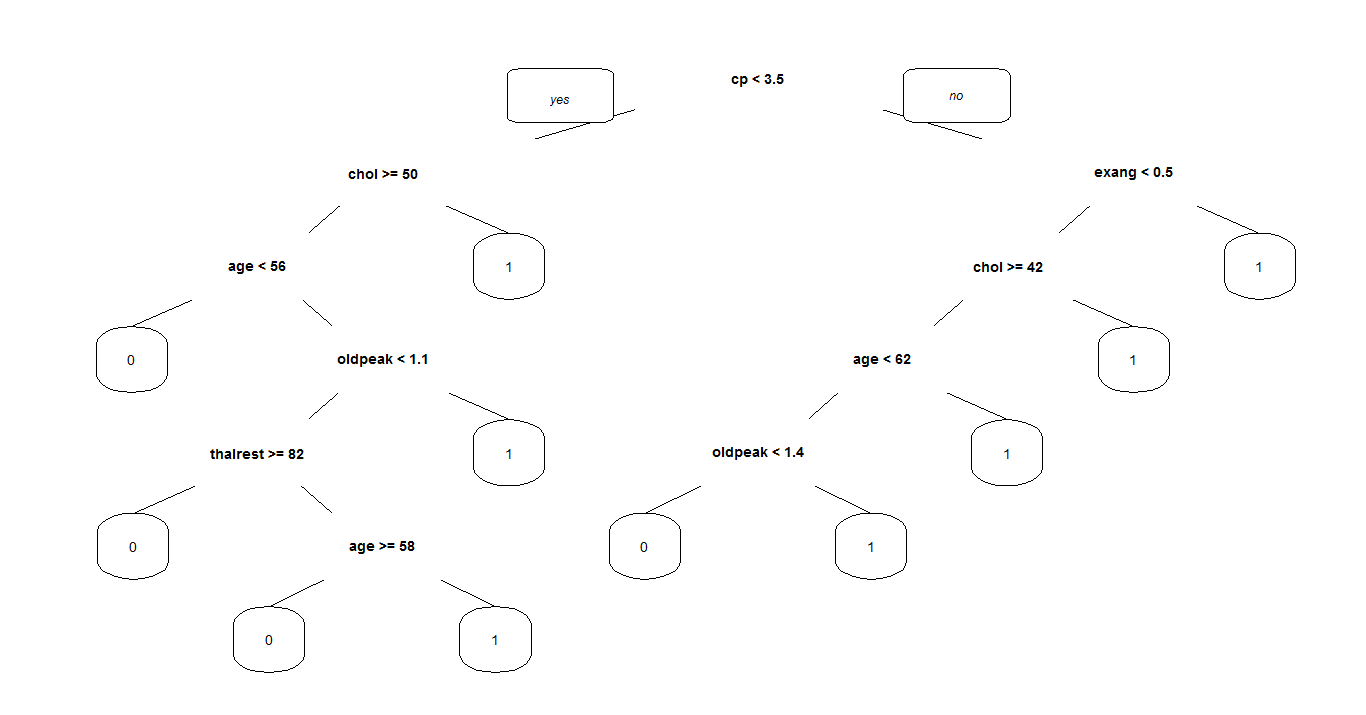
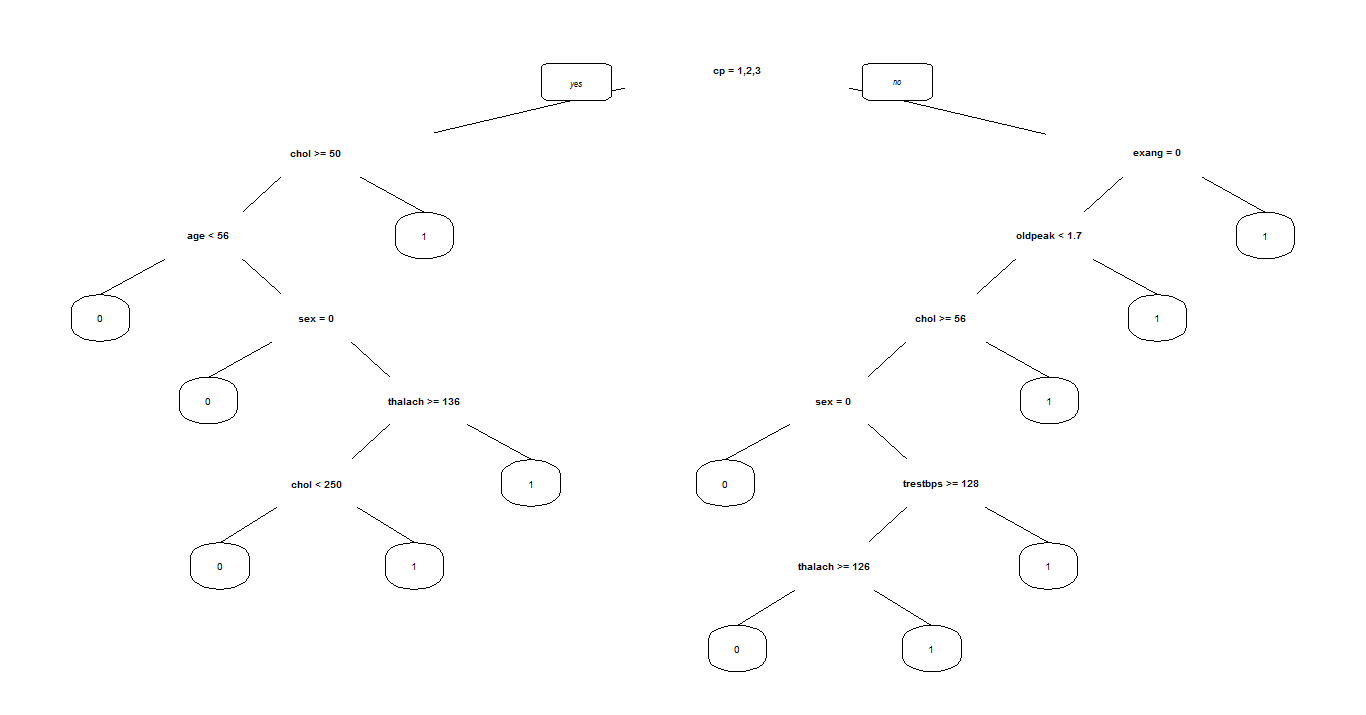
added prediction function in python

diff --git a/prediction/prediction.py b/prediction/prediction.py
@@ -1,0 +1,145 @@
+# -*- coding: utf-8 -*-
+"""
+Created on Sat Apr 16 09:02:18 2016
+
+@author: Susrutha
+@decision tree program
+"""
+
+
+""" 
+Function that takes the following values and predicts whether the person
+is at risk of suffering from heart disease
+1. Chest pain (cp) - type 1 (4 types possible)
+        -- Value 1: typical angina
+        -- Value 2: atypical angina
+        -- Value 3: non-anginal pain
+        -- Value 4: asymptomatic
+2. Exercise induced Angina (exang) - default = No (binary yes/no)
+3. ST Depression induced by exercise (oldpeak) - default = 0
+4. Cholestrol - default = 200
+5. Sex - default male
+6. Resting Blood Pressure (trestbps) - default(systolic) = 120
+7. Maximum Heart Rate - (thalach) default = 110
+8. Age - default = 50
+"""
+def hd_predict(cp = 1, exang = 0, oldpeak = 0, chol = 200, sex = 0, trestbps = 120, thalach = 110, age = 50):
+    result = False
+    if cp == 1 or cp == 2 or cp == 3:
+        if chol >= 50:
+            if age < 56:
+                result = False
+            else:
+                if sex == 0:
+                    result = False
+                else:
+                    if thalach >= 136:
+                        if chol < 250:
+                            result = False
+                        else:
+                            result = True
+                    else:
+                        result = True
+        else:
+            result = True
+    else:
+        if exang == 0:
+            if oldpeak < 1.7:
+                if chol >= 56:
+                    if sex == 0:
+                        result = False
+                    else:
+                        if trestbps >= 128:
+                            if thalach >= 126:
+                                result = False
+                            else:
+                                result = True
+                        else:
+                            result = True
+                else:
+                    result = True
+            else:
+                result = True
+        else:
+            result = True
+    return result
+                
+print hd_predict()
+ 
+
+
+
+
+
+
+
+#from sklearn import tree
+##from sklearn.externals.six import StringIO  
+##import pydot
+##import os
+#
+#
+#""" Read in data as list of lists """
+#file_name = "train_data.csv"
+#f = open(file_name, 'r')
+#headers = f.readline().strip('\r\n').split(',')
+#train_data = []
+#train_target = []
+#for line in f:
+#    row = line.strip('\r\n').split(',')
+#    train_data.append(row[:len(row)-2])
+#    train_target.append(row[-1])
+#f.close()
+#
+#file_name = "testing_data.csv"
+#f = open(file_name, 'r')
+#test_headers = f.readline().strip('\r\n').split(',')
+#test_data = []
+#test_target = []
+#for line in f:
+#    row = line.strip('\r\n').split(',')
+#    test_data.append(row[:len(row)-2])
+#    test_target.append(row[-1])
+#f.close()
+#
+#
+#
+#
+#
+#dtree = tree.DecisionTreeClassifier()
+#dtree = dtree.fit(train_data, train_target)
+#
+##cross_val_score(dtree, train_data, train_target, cv=10)
+#print dtree.score(test_data, test_target)
+#
+##dot_data = StringIO()
+##tree.export_graphviz(dtree, out_file=dot_data) 
+##graph = pydot.graph_from_dot_data(dot_data.getvalue()) 
+##graph.write_pdf("dtree.pdf") 
+#
+# 
+##with open("C:/Users/Susrutha/Desktop/CMU\Spring 2016/Data Pipeline/Project/dtree.dot", 'w') as f:
+##    f = tree.export_graphviz(dtree, out_file=f)
+##os.unlink('C:/Users/Susrutha/Desktop/CMU\Spring 2016/Data Pipeline/Project/dtree.dot')
+# 
+# 
+# 
+
+ 
+ 
+ 
+ 
+ 
+ 
+ 
+ 
+ 
+ 
+ 
+ 
+ 
+ 
+ 
+
+
+    
